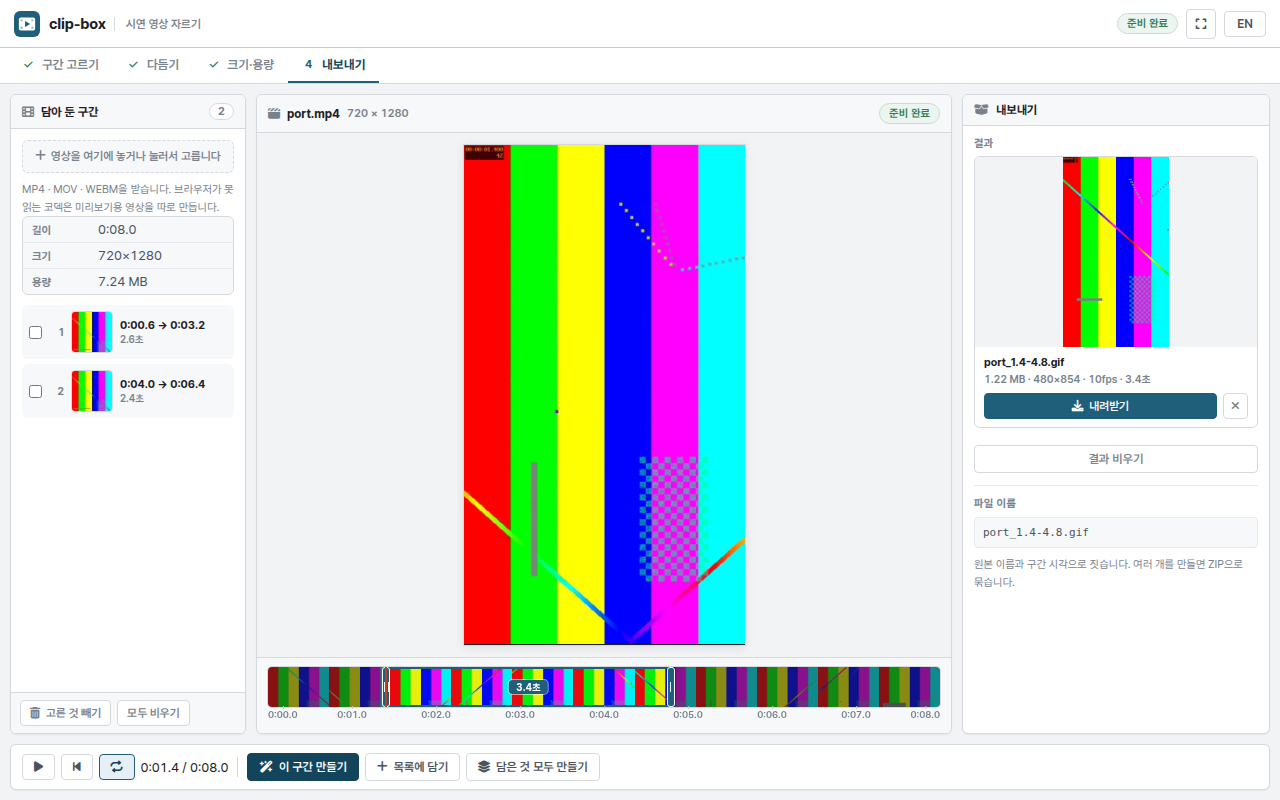
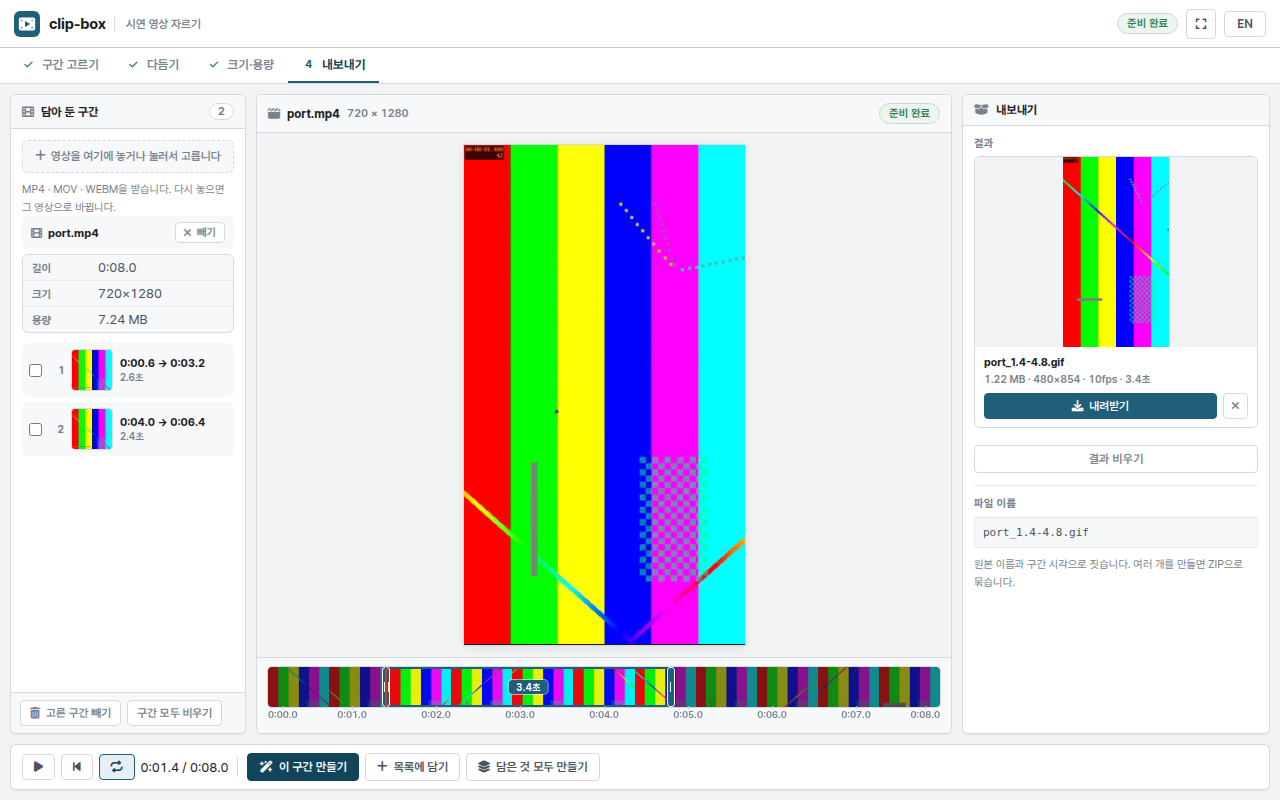
넣은 영상을 뺄 방법이 없던 것을 고쳤다
"구간 고르기에서 영상 올리고 지우려는데 선택이 안 된다" — 맞다.
넣은 영상을 뺄 수단이 아예 없었다.

왼쪽 패널에는 담아 둔 '구간' 목록만 있고, 영상 자체는 길이·크기·용량
석 줄짜리 표로만 떠 있었다. 표는 고를 수 없고, 아래 두 버튼(고른 것 빼기 ·
모두 비우기)은 구간이 없으면 잠겨 있으니 누를 것도 없다.
영상을 바꾸려면 새 파일을 다시 놓는 수밖에 없었고, 아예 빼는 건 새로고침뿐이었다.

snap-box 는 놓은 사진이 곧 목록 항목이라 고르고 지우면 되는데, clip-box 는
목록에 담기는 게 '구간' 이라 영상이 목록 어디에도 없다. 이 차이를 화면에
드러내지 않은 것이 원인이다.

고친 것
 · 파일 이름 + 빼기 버튼 줄을 구간 목록 위에 뒀다 (킷의 .saved 그대로).
   영상이 담아 둔 구간과 다른 것임이 자리로 드러난다.
 · 빼면 처음 상태로 돌아간다 — 무대·필름·드롭존·아래 줄 버튼까지.
   담아 둔 구간은 그 영상 것이므로 같이 없어지고, 구간이 있을 때만 한 번 묻는다.
 · 드롭존 안내를 "다시 놓으면 그 영상으로 바뀝니다" 로 바꿔 바꾸는 법을 적었다.
 · 아래 두 버튼을 '고른 구간 빼기' · '구간 모두 비우기' 로 고쳐 무엇을
   지우는 버튼인지 이름에서 드러나게 했다.
 · 읽지 못한 영상을 치우는 코드도 같은 resetStage() 로 합쳤다.

킷 대조가 깨진 것도 같이 고쳤다
.saved 줄 안의 버튼은 줄 높이를 넘지 않게 한 단계 작게 쓰는데(#logoRow 가
이미 그랬다), 새 줄이 페이지의 첫 .db 가 되면서 대조가 그 값을 킷 값으로
집었다. 두 가지를 했다.
 · #fileRow .db / #logoRow .db 를 .saved .db 하나로 합쳤다.
 · 대조는 문맥 없는 자리에 표본을 만들어 재도록 고쳤다. 문맥이 붙은 요소를
   집으면 킷 값이 아니라 그 자리의 값이 잡힌다 — 전에도 같은 실수를 했다.

확인: 전수시험 73항목, 영상 두 경로 모두 통과. 빼기 흐름 11항목 따로 통과
(뺀 뒤 다시 넣기, 다른 영상으로 이어서 만들기 포함). 외부 요청 0 · 콘솔 오류 0.

Claude-Session: https://claude.ai/code/session_01P6FQarhjzc1txv47JWVSDu

Changed region(s): [[0.0, 0.2188, 0.1875, 0.5625], [0.0625, 0.875, 0.1875, 0.9062]]

diff --git a/js/app.js b/js/app.js
@@ -261,6 +261,7 @@ window.ClipBox = window.ClipBox || {};
   // ═══════════════════════════════════════════════════════════
   function wireFile() {
     var input = $('#fileInput'), zone = $('#dropZone');
+    $('#btnFileClear').addEventListener('click', function (e) { e.stopPropagation(); clearFile(); });
     zone.addEventListener('click', function (e) {
       if (e.target !== input) input.click();
     });
@@ -312,6 +313,9 @@ window.ClipBox = window.ClipBox || {};
       madeProxy = true;
       return buildProxy();
     }).then(function (meta) {
+      $('#fileRow').hidden = false;
+      $('#fileName').textContent = file.name;
+      $('#fileName').title = file.name;
       $('#fileCard').hidden = false;
       $('#fileDur').textContent = fmtTime(meta.duration);
       $('#fileDims').textContent = meta.w + '×' + meta.h;
@@ -333,14 +337,39 @@ window.ClipBox = window.ClipBox || {};
       }
     }).catch(function () {
       toast(T('영상을 읽지 못했습니다. 다른 파일로 해 보세요'));
-      TLM.clearVideo();
-      $('#fileCard').hidden = true;
-      $('#dropZone').classList.remove('slim');
-      $('#stageName').textContent = T('미리보기');
-      $('#stageDims').textContent = '';
       S.file = null;
-      refreshEnabled();
+      resetStage();
     });
+  }
+
+  /** 넣은 영상을 뺍니다. 담아 둔 구간도 그 영상 것이므로 같이 없어집니다. */
+  function clearFile() {
+    if (S.busy || !S.file) return;
+    if (S.clips.length &&
+        !confirm(TF('담아 둔 구간 {n}개도 같이 없어집니다. 영상을 뺄까요?', { n:S.clips.length }))) return;
+    S.file = null;
+    resetStage();
+    toast(T('영상을 뺐습니다'));
+  }
+
+  /** 영상이 없는 처음 상태로 되돌립니다 */
+  function resetStage() {
+    if (S.url) URL.revokeObjectURL(S.url);
+    if (S.proxyURL) URL.revokeObjectURL(S.proxyURL);
+    S.url = null; S.proxyURL = null; S.usingProxy = false;
+    S.inputWritten = false;
+    S.clips = []; S.activeClip = null; S.seq = 0;
+    TLM.clearVideo();
+    $('#fileRow').hidden = true;
+    $('#fileCard').hidden = true;
+    $('#bigNote').hidden = true;
+    $('#dropZone').classList.remove('slim');
+    $('#stageName').textContent = T('미리보기');
+    $('#stageName').title = '';
+    $('#stageDims').textContent = '';
+    renderClips();
+    onRangeChange();
+    refreshEnabled();
   }
 
   /** 미리보기용 대역 영상(VP8/WebM)을 만들어 겁니다 */
@@ -646,6 +675,7 @@ window.ClipBox = window.ClipBox || {};
     $('#btnRemoveSel').disabled = !S.clips.length || S.busy;
     $('#btnClearQueue').disabled = !S.clips.length || S.busy;
     $('#btnCropClear').disabled = !hasVideo || S.busy;
+    $('#btnFileClear').disabled = !S.file || S.busy;
     markDone();
   }
 

diff --git a/js/i18n.js b/js/i18n.js
@@ -42,16 +42,17 @@ var GL_I18N = {
   // ── 왼쪽: 담아 둔 구간 ──
   '담아 둔 구간': 'Saved ranges',
   '영상을 여기에 놓거나 눌러서 고릅니다': 'Drop a video here, or click to choose',
-  'MP4 · MOV · WEBM을 받습니다. 브라우저가 못 읽는 코덱은 미리보기용 영상을 따로 만듭니다.':
-    'MP4, MOV and WEBM are accepted. For codecs this browser cannot decode, a preview copy is built.',
+  'MP4 · MOV · WEBM을 받습니다. 다시 놓으면 그 영상으로 바뀝니다.':
+    'MP4, MOV and WEBM are accepted. Drop another one and it replaces this video.',
   '길이': 'Length',
   '크기': 'Size',
   '용량': 'File size',
   '300MB가 넘습니다. 메모리가 모자라 실패할 수 있으니 폰에서 먼저 잘라 오세요.':
     'Over 300MB. It may fail from lack of memory — trim it on your phone first.',
   '한 영상에서 여러 군데를 뽑을 때만 씁니다.': 'Only needed when you want several parts of one video.',
-  '고른 것 빼기': 'Remove checked',
-  '모두 비우기': 'Clear all',
+  '고른 구간 빼기': 'Remove checked ranges',
+  '구간 모두 비우기': 'Clear all ranges',
+  '빼기': 'Remove',
 
   // ── 가운데 ──
   '미리보기': 'Preview',
@@ -111,7 +112,6 @@ var GL_I18N = {
     'A Korean font ships with the tool, so Hangul never turns into boxes.',
   '로고': 'Logo',
   '로고 그림 고르기': 'Choose a logo image',
-  '빼기': 'Remove',
 
   // ── 3. 크기·용량 ──
   '어디에 쓸 영상인가요': 'What is it for',
@@ -180,6 +180,7 @@ var GL_I18N = {
   '같은 구간이 이미 목록에 있습니다': 'That exact range is already in the list',
   '지금 화면을 사진으로 저장했습니다': 'Saved this frame as a photo',
   '목록을 비웠습니다': 'Cleared the list',
+  '영상을 뺐습니다': 'Removed the video',
   '기본값으로 되돌렸습니다': 'Reset to defaults',
   '메모리가 모자랍니다. 구간을 짧게 하거나 가로 크기를 줄여 보세요':
     'Out of memory. Try a shorter range or a smaller width',
@@ -196,6 +197,8 @@ var GL_I18N = {
   '{s}초쯤 남았습니다': 'About {s}s left',
   '체크한 {n}개를 뺄까요?': 'Remove the {n} checked clip(s)?',
   '목록을 모두 비울까요?': 'Clear the whole list?',
+  '담아 둔 구간 {n}개도 같이 없어집니다. 영상을 뺄까요?':
+    'The {n} saved range(s) go too. Remove the video?',
   '{n} / {total} MB': '{n} / {total} MB'
 };
 

diff --git a/index.html b/index.html
@@ -35,8 +35,13 @@
         <i class="fa-solid fa-plus"></i><br>영상을 여기에 놓거나 눌러서 고릅니다
         <input type="file" id="fileInput" accept="video/*,.mp4,.mov,.m4v,.webm,.mkv">
       </div>
-      <div class="hint" id="queueHint">MP4 · MOV · WEBM을 받습니다. 브라우저가 못 읽는 코덱은 미리보기용 영상을 따로 만듭니다.</div>
+      <div class="hint" id="queueHint">MP4 · MOV · WEBM을 받습니다. 다시 놓으면 그 영상으로 바뀝니다.</div>
 
+      <div class="saved" id="fileRow" hidden>
+        <i class="fa-solid fa-film"></i>
+        <span class="nm" id="fileName"></span>
+        <button class="db danger" id="btnFileClear"><i class="fa-solid fa-xmark"></i>빼기</button>
+      </div>
       <div class="summary" id="fileCard" hidden>
         <div class="srow"><span class="sk">길이</span><span class="sv num" id="fileDur">—</span></div>
         <div class="srow"><span class="sk">크기</span><span class="sv num" id="fileDims">—</span></div>
@@ -48,8 +53,8 @@
       <div class="hint" id="queueEmpty">한 영상에서 여러 군데를 뽑을 때만 씁니다.</div>
     </div>
     <div class="pf">
-      <button class="db danger" id="btnRemoveSel"><i class="fa-solid fa-trash-can"></i>고른 것 빼기</button>
-      <button class="db danger" id="btnClearQueue">모두 비우기</button>
+      <button class="db danger" id="btnRemoveSel"><i class="fa-solid fa-trash-can"></i>고른 구간 빼기</button>
+      <button class="db danger" id="btnClearQueue">구간 모두 비우기</button>
     </div>
   </section>
 

diff --git a/css/app.css b/css/app.css
@@ -120,10 +120,19 @@
 .db.fold i{width:10px;transition:transform .12s}
 .db.fold.on i{transform:rotate(90deg)}
 
-/* ── 오른쪽: 로고 미리보기 ─────────────────────────────── */
+/* ── .saved 한 줄 안의 것들 ────────────────────────────── */
+/* .saved 는 킷 부품이다. 그 줄에 들어가는 버튼은 줄 높이(6px 9px)를 넘지
+   않게 한 단계 작게 쓴다. 자매 서비스도 같은 일이 생기면 킷으로 옮긴다. */
+.saved .db{padding:3px 8px;font-size:11px;flex-shrink:0}
+
+/* 왼쪽: 넣은 영상 한 줄.
+   영상은 담아 둔 구간과 다른 것이므로 구간 목록 위에 따로 두고,
+   여기서 바로 뺄 수 있게 한다. */
+#fileRow i{flex-shrink:0;color:var(--ink3);font-size:11px}
+
+/* 오른쪽: 로고 미리보기 */
 #logoRow img{width:22px;height:22px;flex-shrink:0;object-fit:contain;
   border:1px solid var(--line);border-radius:var(--r-s);background:var(--panel)}
-#logoRow .db{padding:3px 8px;font-size:11px;flex-shrink:0}
 
 /* ── 오른쪽: 결과 카드 ─────────────────────────────────── */
 .res{border:1px solid var(--line);border-radius:var(--r-m);overflow:hidden;

diff --git a/README.md b/README.md
@@ -22,6 +22,7 @@
 ## 쓰는 순서
 
 영상을 왼쪽에 끌어다 놓으면 (MP4 · MOV · M4V · WEBM · MKV) 바로 필름이 깔리고 앞 5초가 잡힙니다.
+다른 영상을 다시 놓으면 그 영상으로 바뀌고, 파일 이름 옆 **빼기**로 뺍니다.
 아이폰 HEVC 처럼 브라우저가 못 읽는 코덱이면 미리보기용 영상을 따로 만들어 보여 줍니다.
 **만드는 것은 언제나 원본입니다.**
 
